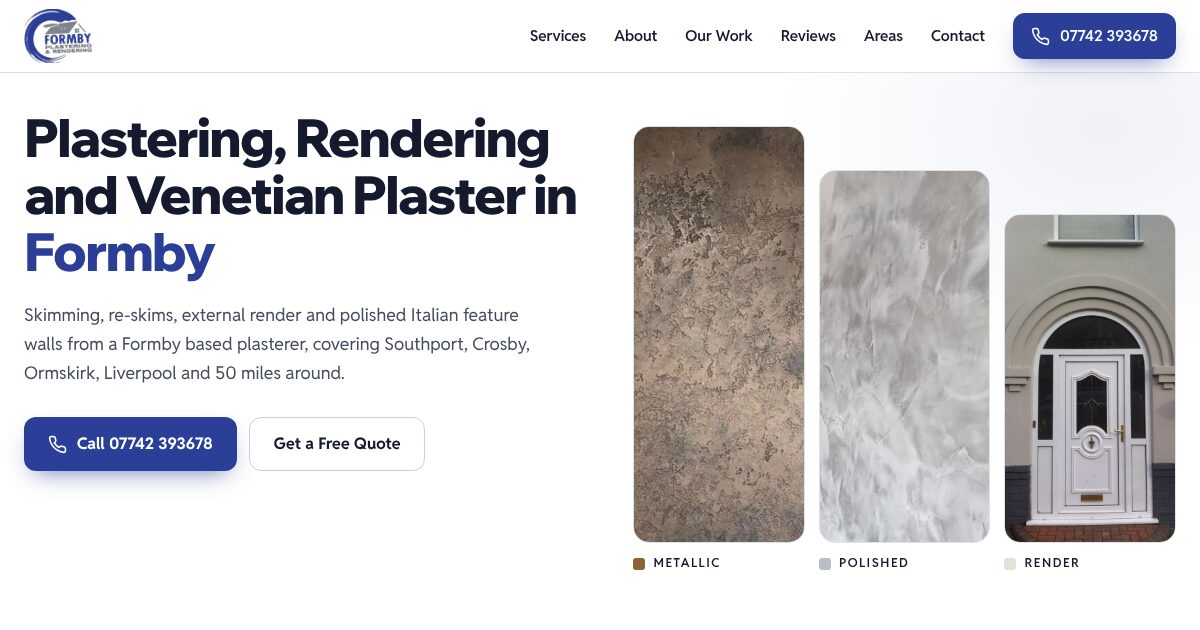
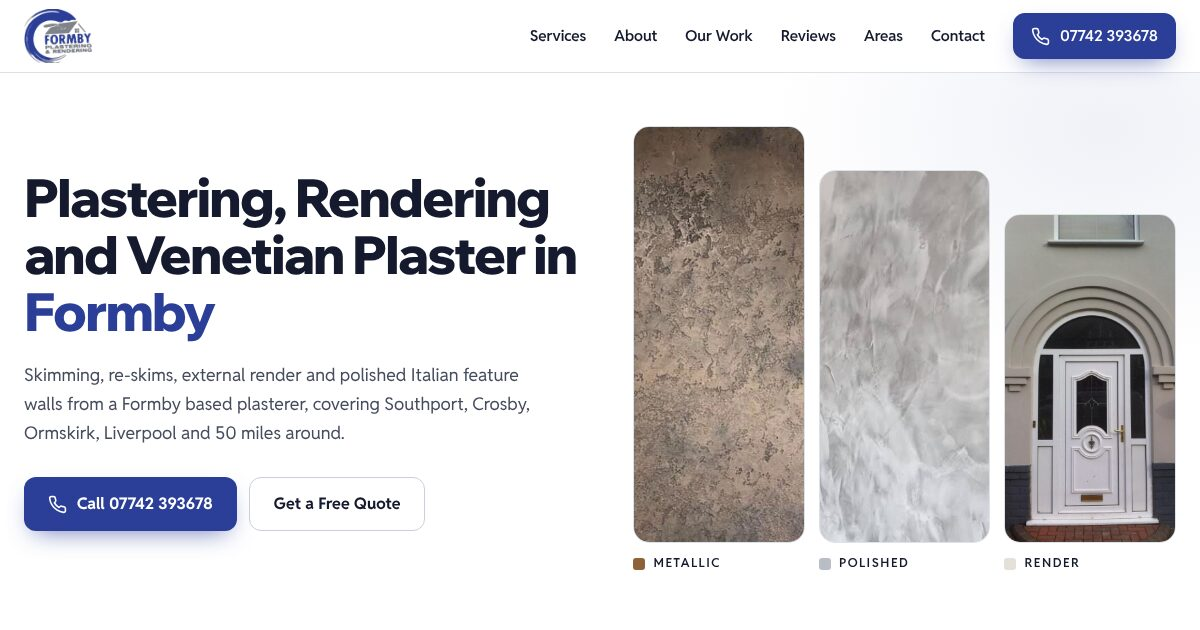
Formby Plastering & Rendering A: centre the hero copy vertically

Changed region(s): [[0.0, 0.181, 0.4933, 0.6032], [0.0, 0.6333, 0.4317, 0.8746]]

diff --git a/formby-plastering-rendering/index.html b/formby-plastering-rendering/index.html
@@ -118,10 +118,11 @@ section{padding-top:96px;padding-bottom:96px}
 /* hero: SWATCH BOARD */
 .hero{display:flex;flex-direction:column;background:
   radial-gradient(40% 60% at 92% 10%,rgba(43,62,152,.07),transparent 70%),#fff}
-.hero-grid{display:grid;grid-template-columns:minmax(0,1.02fr) minmax(0,1fr);grid-template-areas:"h1 sw" "lede sw" "cta sw";grid-template-rows:1fr auto 1fr;column-gap:56px;align-content:center;height:clamp(540px,calc(100vh - var(--nav-h)),760px);padding-top:36px;padding-bottom:40px}
-.hero h1{grid-area:h1;align-self:end;margin-bottom:20px}
+.hero-grid{display:grid;grid-template-columns:minmax(0,1.02fr) minmax(0,1fr);grid-template-areas:"copy sw";column-gap:56px;align-content:center;height:clamp(540px,calc(100vh - var(--nav-h)),760px);padding-top:36px;padding-bottom:40px}
+.hero-copy{grid-area:copy;align-self:center}
+.hero h1{grid-area:h1;margin-bottom:20px}
 .hero .lede{grid-area:lede;font-size:1.1rem;max-width:520px;margin-bottom:30px}
-.hero-cta{grid-area:cta;display:flex;gap:12px;flex-wrap:wrap;align-self:start}
+.hero-cta{grid-area:cta;display:flex;gap:12px;flex-wrap:wrap}
 .swatches{grid-area:sw;display:grid;grid-template-columns:repeat(3,1fr);gap:14px;height:clamp(380px,calc(100vh - var(--nav-h) - 110px),600px);min-height:0;align-self:center}
 .sw{display:flex;flex-direction:column;min-height:0}
 .sw-tile{position:relative;flex:1;min-height:0;border-radius:16px;overflow:hidden;border:1px solid var(--line);background:var(--stone)}
@@ -281,7 +282,8 @@ footer{background:var(--navy2);color:#9ba3c4;padding-top:60px;padding-bottom:34p
   .nav-links li:last-child{border-bottom:0;padding-top:16px}
   .nav-links a:not(.btn){display:block;padding:15px 0;font-size:1.05rem}
   .nav-links a.btn{width:100%;height:54px}
-  .hero-grid{height:auto;grid-template-rows:none;grid-template-columns:1fr;grid-template-areas:"h1" "sw" "lede" "cta";padding-top:26px;padding-bottom:36px}
+  .hero-grid{height:auto;grid-template-columns:1fr;grid-template-areas:"h1" "sw" "lede" "cta";padding-top:32px;padding-bottom:32px}
+  .hero-copy{display:contents}
   .hero h1{margin-bottom:20px}
   .swatches{height:auto;gap:10px;margin-bottom:20px}
   .sw:nth-child(2) .sw-tile{transform:translateY(10px)}
@@ -357,16 +359,18 @@ footer{background:var(--navy2);color:#9ba3c4;padding-top:60px;padding-bottom:34p
 <main id="top">
 <section class="hero" style="padding:0">
   <div class="wrap hero-grid">
+    <div class="hero-copy">
     <h1>Plastering, Rendering and Venetian Plaster in <span class="acc">Formby</span></h1>
-    <div class="swatches" aria-label="Recent finishes">
-      <figure class="sw" style="--c:#8e6238"><div class="sw-tile"><img class="p-bronze" src="tile-bronze.jpg" alt="Bronze metallic plaster feature wall with wall lights" width="956" height="610"></div><figcaption class="sw-label">Metallic</figcaption></figure>
-      <figure class="sw" style="--c:#b9bec6"><div class="sw-tile"><img class="p-silver" src="work-silver.jpg" alt="Polished silver plaster wall with a TV mounted" width="660" height="660"></div><figcaption class="sw-label">Polished</figcaption></figure>
-      <figure class="sw" style="--c:#e4e1da"><div class="sw-tile"><img src="work-render.jpg" alt="Rendered house front with a moulded arch round the door" width="704" height="960"></div><figcaption class="sw-label">Render</figcaption></figure>
-    </div>
     <p class="lede">Skimming, re-skims, external render and polished Italian feature walls from a Formby based plasterer, covering Southport, Crosby, Ormskirk, Liverpool and 50 miles around.</p>
     <div class="hero-cta">
       <a href="#contact" class="btn btn-call js-call"><svg viewBox="0 0 24 24" fill="none" stroke="currentColor" stroke-width="2" stroke-linecap="round" stroke-linejoin="round"><path d="M22 16.9v3a2 2 0 0 1-2.2 2 19.8 19.8 0 0 1-8.6-3.1 19.5 19.5 0 0 1-6-6A19.8 19.8 0 0 1 2.1 4.2 2 2 0 0 1 4.1 2h3a2 2 0 0 1 2 1.7c.1.9.4 1.8.7 2.7a2 2 0 0 1-.5 2.1L8 9.8a16 16 0 0 0 6 6l1.3-1.3a2 2 0 0 1 2.1-.4c.9.3 1.8.6 2.7.7a2 2 0 0 1 1.7 2z"/></svg><span class="js-num">Call us</span></a>
       <a href="#contact" class="btn btn-ghost">Get a Free Quote</a>
+    </div>
+    </div>
+    <div class="swatches" aria-label="Recent finishes">
+      <figure class="sw" style="--c:#8e6238"><div class="sw-tile"><img class="p-bronze" src="tile-bronze.jpg" alt="Bronze metallic plaster feature wall with wall lights" width="956" height="610"></div><figcaption class="sw-label">Metallic</figcaption></figure>
+      <figure class="sw" style="--c:#b9bec6"><div class="sw-tile"><img class="p-silver" src="work-silver.jpg" alt="Polished silver plaster wall with a TV mounted" width="660" height="660"></div><figcaption class="sw-label">Polished</figcaption></figure>
+      <figure class="sw" style="--c:#e4e1da"><div class="sw-tile"><img src="work-render.jpg" alt="Rendered house front with a moulded arch round the door" width="704" height="960"></div><figcaption class="sw-label">Render</figcaption></figure>
     </div>
   </div>
 </section>
